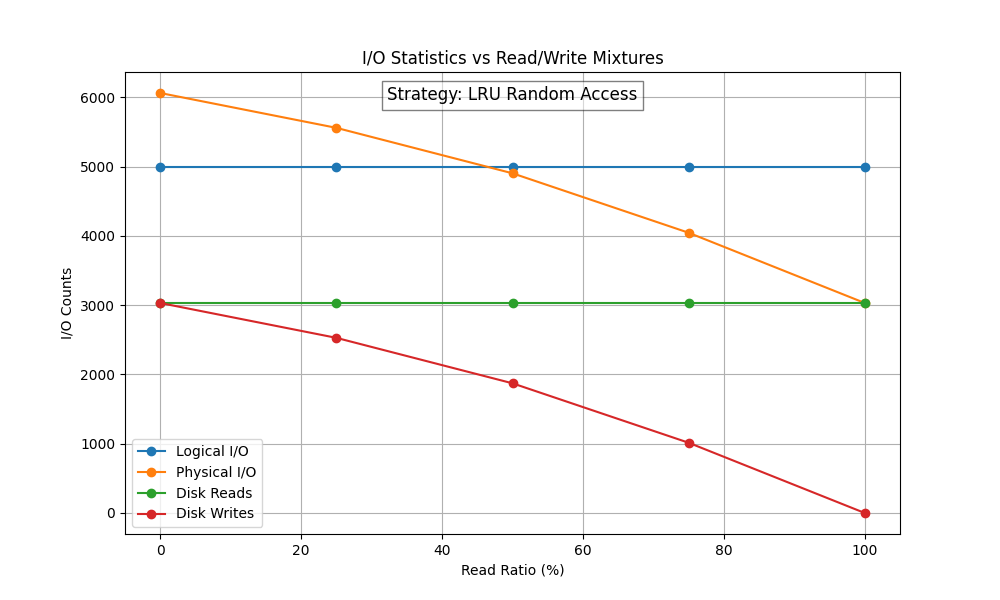
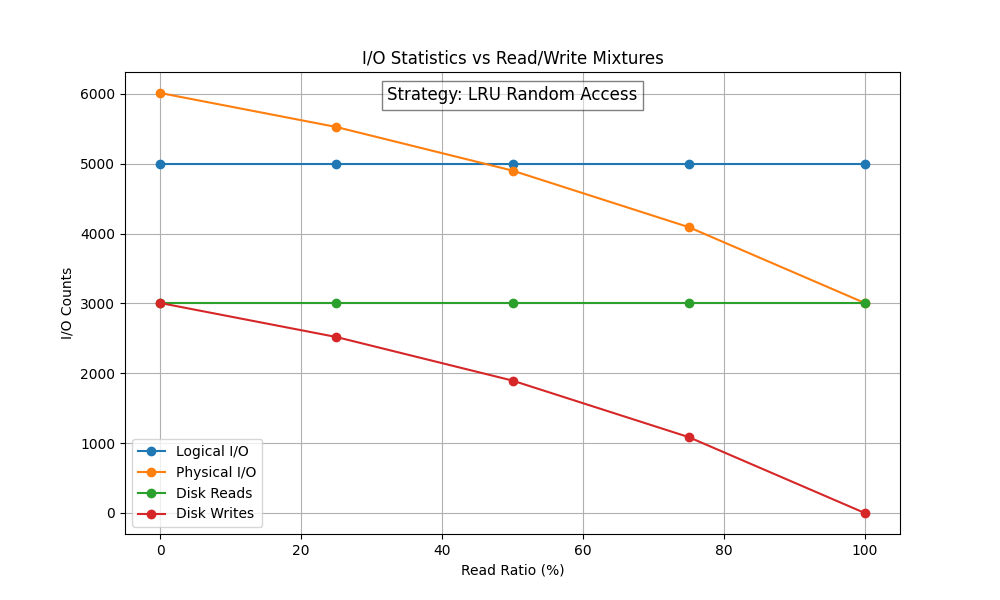
Recompilation and changes

diff --git a/ToyDB/pflayer/testpf_seq.c b/ToyDB/pflayer/testpf_seq.c
@@ -16,7 +16,7 @@
 /* --- Test Configuration --- */
 #define TEST_FILENAME "pf_testfile_seq"
 #define BUFFER_SIZE 20   /* The buffer pool size to initialize */
-#define NUM_PAGES 32     /* File size (must be > BUFFER_SIZE to test eviction) */
+#define NUM_PAGES 50     /* File size (must be > BUFFER_SIZE to test eviction) */
 #define WORKLOAD_SIZE 5000 /* Total number of read/write operations */
 #define STRATEGY PF_LRU /* PF_LRU or PF_MRU */
 
@@ -89,7 +89,7 @@ int main(int argc, char **argv)
         
         // CHANGE: Access pages sequentially (0, 1, ... 49, 0, ...)
         pagenum = i % NUM_PAGES;
-        
+
         /* Decide whether to read or write */
         ratio = rand() % 100;
 
